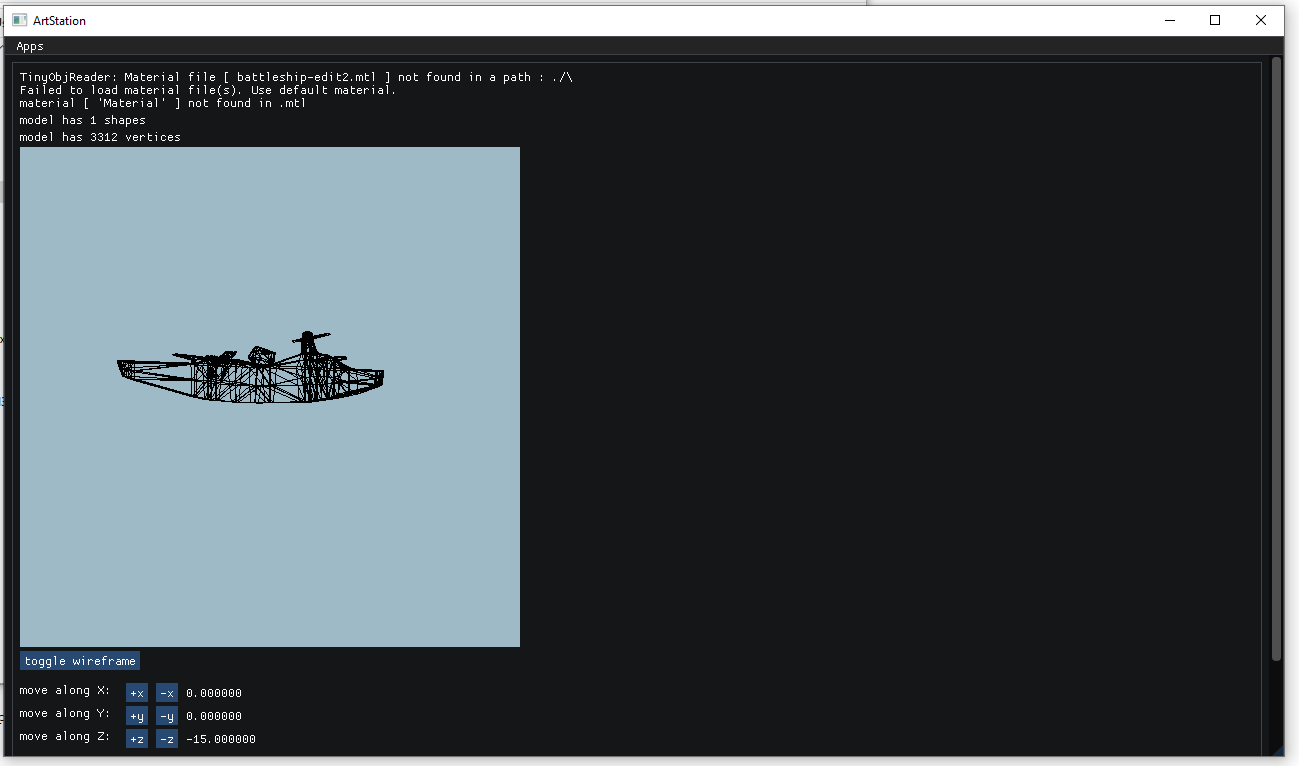
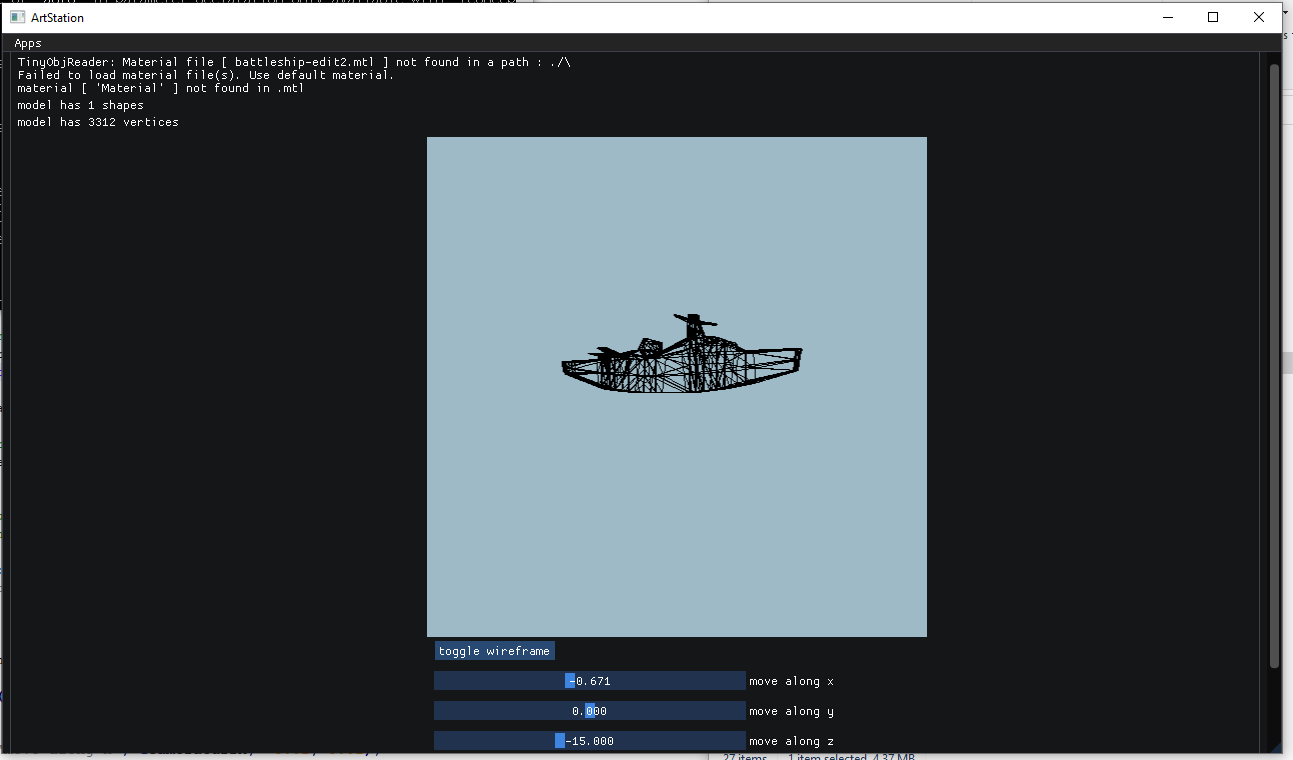
edits

diff --git a/apps/3d_viewer.cpp b/apps/3d_viewer.cpp
@@ -242,10 +242,14 @@ void show3dModelViewer(
 		if(glCheckFramebufferStatus(GL_FRAMEBUFFER) != GL_FRAMEBUFFER_COMPLETE){
 			std::cout << "framebuffer error: " << glCheckFramebufferStatus(GL_FRAMEBUFFER) << '\n';
 		}else{
+			
+			int viewportHeight = 500;
+			int viewportWidth = 500;
+			
 			// draw to the offscreen frame buffer
 			// adjust the glviewport to be drawn to so the image comes out correctly
 			glBindFramebuffer(GL_FRAMEBUFFER, offscreenFrameBuf);
-			glViewport(0, 0, 500, 500);
+			glViewport(0, 0, viewportWidth, viewportHeight);
 			glClearColor(0.62f, 0.73f, 0.78f, 0.0f); // the color of the background
 			glClear(GL_COLOR_BUFFER_BIT | GL_DEPTH_BUFFER_BIT);
 			
@@ -311,15 +315,13 @@ void show3dModelViewer(
 			
 			// grab the offscreen texture and draw it to an imgui image
 			glActiveTexture(GL_TEXTURE1);
-			int w = 500;
-			int h = 500;
-			int pixelDataLen = w*h*3;
+			int pixelDataLen = viewportWidth*viewportHeight*3;
 			unsigned char* pixelData = new unsigned char[pixelDataLen];
 			glGetTexImage(GL_TEXTURE_2D, 0, GL_RGB, GL_UNSIGNED_BYTE, pixelData);
 			
-			// TODO: center the image?
-			//ImGui::SetCursorPos(ImVec2(ImGui::GetWindowSize().x/3, 0));
-			ImGui::Image((void *)(intptr_t)offscreenTexture, ImVec2(w, h));
+			// center the image
+			ImGui::SetCursorPos(ImVec2(ImGui::GetWindowSize().x/3, 90));
+			ImGui::Image((void *)(intptr_t)offscreenTexture, ImVec2(viewportWidth, viewportHeight));
 			
 			delete pixelData;
 			
@@ -327,50 +329,29 @@ void show3dModelViewer(
 			glBindFramebuffer(GL_FRAMEBUFFER, 0);
 		}
 		
+		//ImGui::Indent(ImGui::GetWindowSize().x/2); TODO: can't seem to use 2 indents? :/
+		// I'd like to indent the button a different amount from the amount for the sliders
+		
+		ImGui::Indent(ImGui::GetWindowSize().x/3); // center the sliders
 		if(ImGui::Button("toggle wireframe")){
 			toggleWireframe = !toggleWireframe; 
 		}
 		
-		ImGui::Dummy(ImVec2(0.0f, 5.0f)); // add some vertical spacing
+		ImGui::PushItemWidth(ImGui::GetWindowSize().x/4); // make the sliders a bit smaller in length
+		
+		ImGui::Dummy(ImVec2(0.0f, 3.0f)); // add some vertical spacing
 		
 		// control camera x movement
-		ImGui::Text("move along X: ");
-		ImGui::SameLine();
-		if(ImGui::Button("+x")){
-			cameraCurrX += 0.5f;
-		}
-		ImGui::SameLine();
-		if(ImGui::Button("-x")){
-			cameraCurrX -= 0.5f;
-		}
-		ImGui::SameLine();
-		ImGui::Text("%f", cameraCurrX);
+		ImGui::SliderFloat("move along x", &cameraCurrX, -5.0f, 5.0f);
+		ImGui::Dummy(ImVec2(0.0f, 3.0f));
 		
 		// control camera y movement
-		ImGui::Text("move along Y: ");
-		ImGui::SameLine();
-		if(ImGui::Button("+y")){
-			cameraCurrY += 0.5f;
-		}
-		ImGui::SameLine();
-		if(ImGui::Button("-y")){
-			cameraCurrY -= 0.5f;
-		}
-		ImGui::SameLine();
-		ImGui::Text("%f", cameraCurrY);
+		ImGui::SliderFloat("move along y", &cameraCurrY, -5.0f, 5.0f);
+		ImGui::Dummy(ImVec2(0.0f, 3.0f));
 		
 		// control camera z movement
-		ImGui::Text("move along Z: ");
-		ImGui::SameLine();
-		if(ImGui::Button("+z")){
-			cameraCurrZ += 0.5f;
-		}
-		ImGui::SameLine();
-		if(ImGui::Button("-z")){
-			cameraCurrZ -= 0.5f;
-		}
-		ImGui::SameLine();
-		ImGui::Text("%f", cameraCurrZ);
+		ImGui::SliderFloat("move along z", &cameraCurrZ, -25.0f, 0.0f);
+		ImGui::Dummy(ImVec2(0.0f, 3.0f));
 	}
 	
 	ImGui::EndChild();

diff --git a/apps/drawing_canvas.cpp b/apps/drawing_canvas.cpp
@@ -7,8 +7,9 @@ void showDrawingCanvas(){
 	// use this to keep track of where each separately drawn segement ends because everything gets redrawn each re-render from the beginning
 	static std::set<int> lastSegmentIndexes;
 	
-	// keep track of colors
+	// keep track of colors and brush size as well so whenever we change those things, previously drawn strokes don't get changed
 	static std::vector<ImU32> canvasPointColors;
+	static std::vector<float> canvasPointSizes;
     
 	// brush size
 	static float brushSize = 3.0f;
@@ -50,13 +51,15 @@ void showDrawingCanvas(){
 	{
 		canvasPoints.push_back(mousePosInCanvas);
 		canvasPointColors.push_back(selectedColor);
+		canvasPointSizes.push_back(brushSize);
 	}
 	
 	ImVec2 dragDelta = ImGui::GetMouseDragDelta(ImGuiMouseButton_Left);
-	if (isHovered && isActive && (dragDelta.x > 0 || dragDelta.y > 0))
+	if (isHovered && isActive && (std::abs(dragDelta.x) > 0 || std::abs(dragDelta.y) > 0))
 	{
 		canvasPoints.push_back(mousePosInCanvas);
 		canvasPointColors.push_back(selectedColor);
+		canvasPointSizes.push_back(brushSize);
 	}
 	
 	int lastIdx = -1;
@@ -73,20 +76,22 @@ void showDrawingCanvas(){
 	for(int i = 0; i < numPoints; i++){
 		ImVec2 p1 = ImVec2(origin.x + canvasPoints[i].x, origin.y + canvasPoints[i].y);
 		ImVec2 p2 = ImVec2(origin.x + canvasPoints[i+1].x, origin.y + canvasPoints[i+1].y);
+		
 		ImU32 theColor = canvasPointColors[i];
+		float theSize = canvasPointSizes[i];
 		
 		if(lastSegmentIndexes.find(i) != lastSegmentIndexes.end()){
 			//std::cout << "last point index: " << lastPointIndex << std::endl;				
 			// don't draw a line from this point to the next
-			drawList->AddCircleFilled(p1, brushSize-1.5f, theColor, 8.0f);
+			drawList->AddCircleFilled(p1, theSize-1.5f, theColor, 8.0f);
 			continue;
 		}
 		if(i < numPoints - 1){
 			// connect the points
-			drawList->AddLine(p1, p2, theColor, brushSize);
+			drawList->AddLine(p1, p2, theColor, theSize);
 		}else{
 			// just draw point
-			drawList->AddCircle(p1, brushSize-1.5f, theColor, 8.0f);
+			drawList->AddCircle(p1, theSize-1.5f, theColor, 8.0f);
 		}
 	}
 	
@@ -110,6 +115,7 @@ void showDrawingCanvas(){
 		canvasPoints.clear();
 		lastSegmentIndexes.clear();
 		canvasPointColors.clear();
+		canvasPointSizes.clear();
 	}
 	
 	ImGui::Columns();
